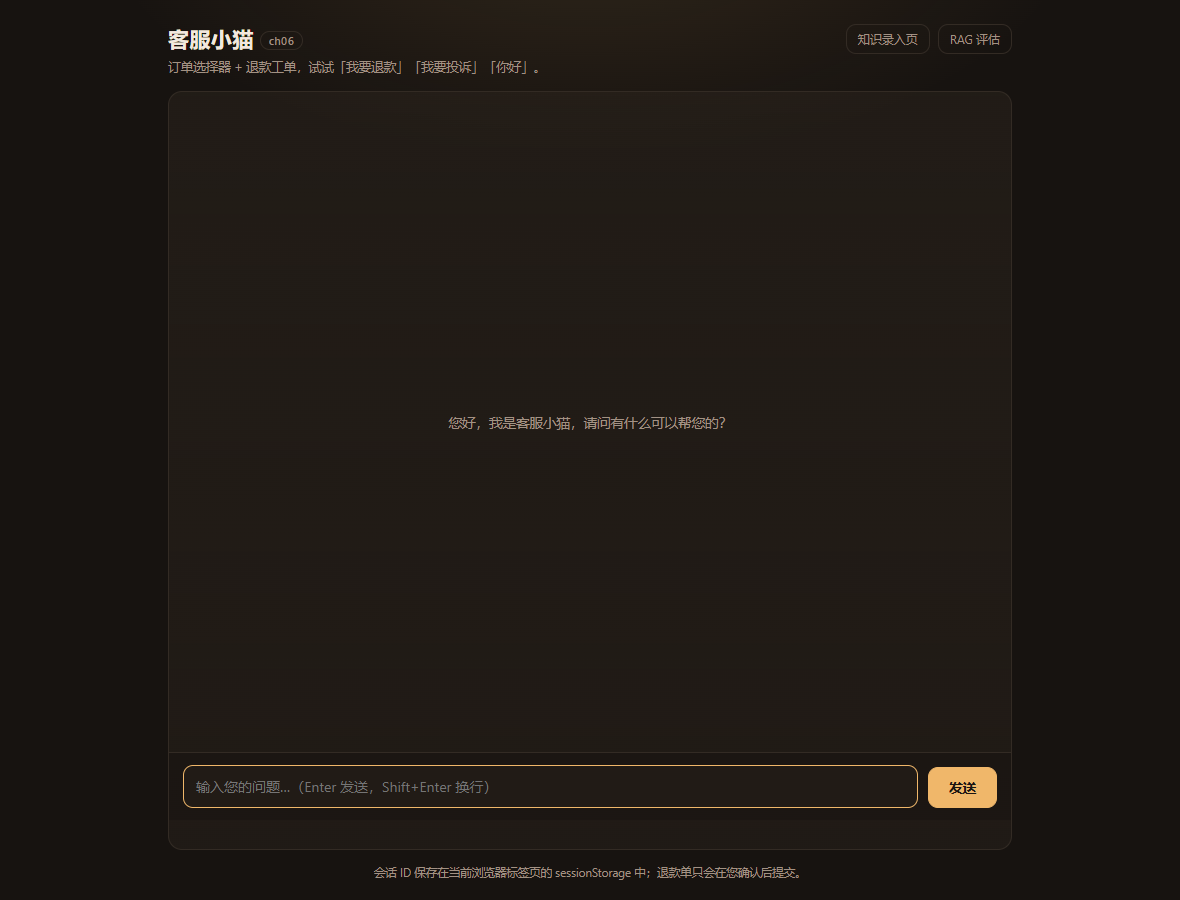
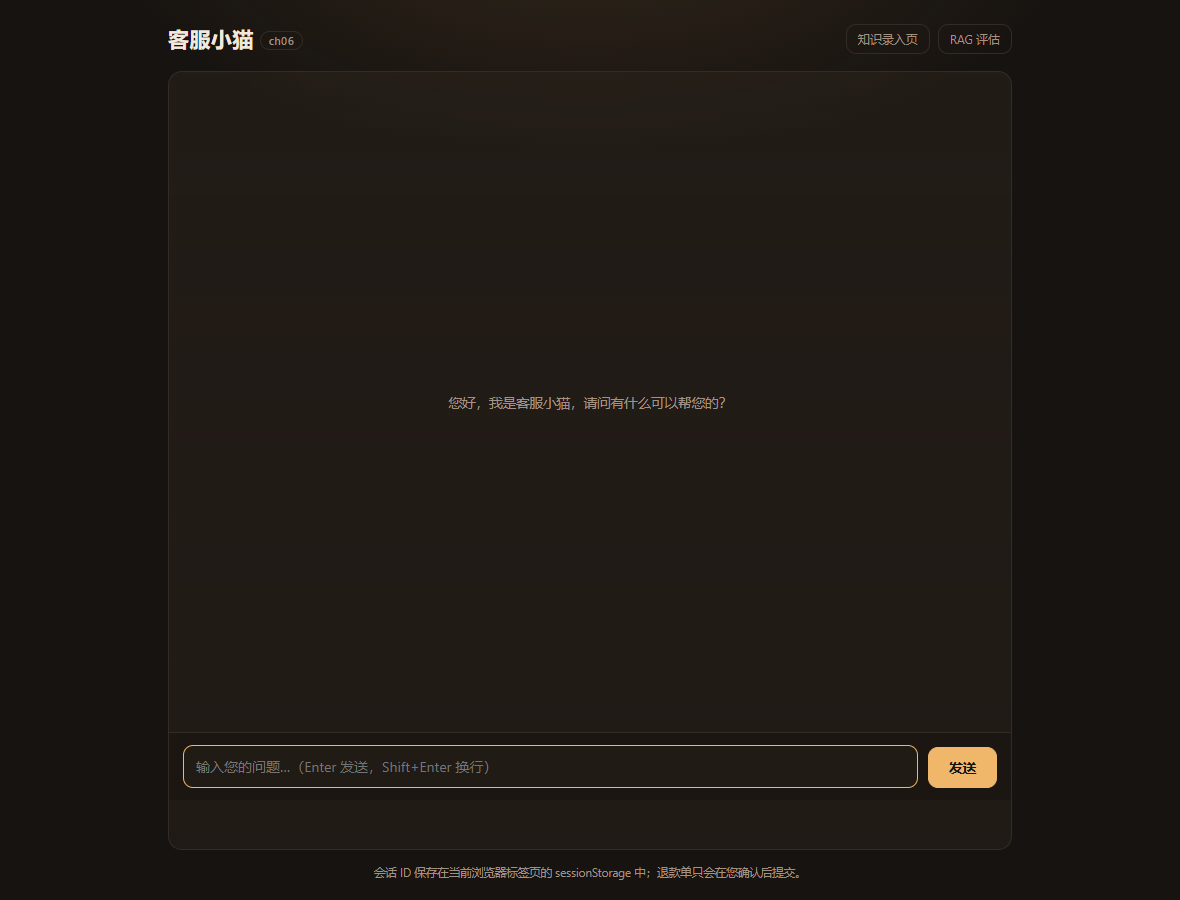
test: refresh ch06 browser acceptance after prompt fixes

diff --git a/dev-notes/ch06.md b/dev-notes/ch06.md
@@ -648,6 +648,17 @@
 - 首次验收截图退款表单被聊天区底部裁切：平滑滚动未完成且 Playwright 只把部分可见视为“已可见”；改为即时居中滚动并让验收脚本显式居中后重跑，最终截图完整显示订单号、原因下拉与提交按钮。
 - 前端按用户要求走 Vibe Coding，不做 TDD/code review；以真实浏览器验收替代单测。
 
+#### 复验：prompt 禁止追问退款原因 + 页面收尾（2026-11-18 20:18，以此为准）
+
+- 分支新增两个提交后复验：`191b778`（售后 prompt 禁止在对话中追问退款原因，固定类目由表单收集）、`e3c2a98`（移除页头提示文案与退款成功的重复系统消息）。
+- 重启 `run.py` 让懒加载图重新构建；使用全新会话 `87e86666-2feb-4bb0-a8f1-c3203be2abda` 重跑 6 步，截图覆盖 `docs/superpowers/reports/ch06-browser-*.png`。
+- 结果：6 步全部 PASS，脚本断言全为 true——`three_order_cards`、`no_reason_question_in_chat`、`refund_button_present`、`refund_ticket_created`、`transfer_present`、`ticket_present`、`fixed_chitchat`、`all_six_steps_completed`。
+- 第 3 步重点：续流答案只说明订单/退货政策并直接引导「提交退款工单」，未出现「商品本身有问题」「还是不想要了」「质量问题还是七天无理由」等追问；答案明确写「按固定类目选择退款原因」。截图 `ch06-browser-03-after-resume.png`。
+- 第 4 步：选「质量问题」提交成功，显示退款单号 `T20261118005`；DB 行为 `T20261118005 | 退款 | 待处理 | 订单 1001 退款申请，原因：质量问题`。页面只保留表单内单号提示，不再重复追加系统消息；页头提示文案已消失。截图 `ch06-browser-04-refund-submitted.png`。
+- 第 5、6 步：投诉仍出现「转人工」「建工单」各 1 个；「你好」仍返回固定闲聊文案。
+- 所有请求 200，无 JS 异常；仍只有 favicon 404。
+- 剩余关注点：模型输出措辞会随采样变化，本次仅按指定禁用短语断言「不追问原因」；watchdog/error 帧仍未主动制造；转人工/建工单本次仍只验证按钮出现。
+
 ---
 
 ## 阶段：Task 18 多轮验收与全量测试（2026-11-18）
